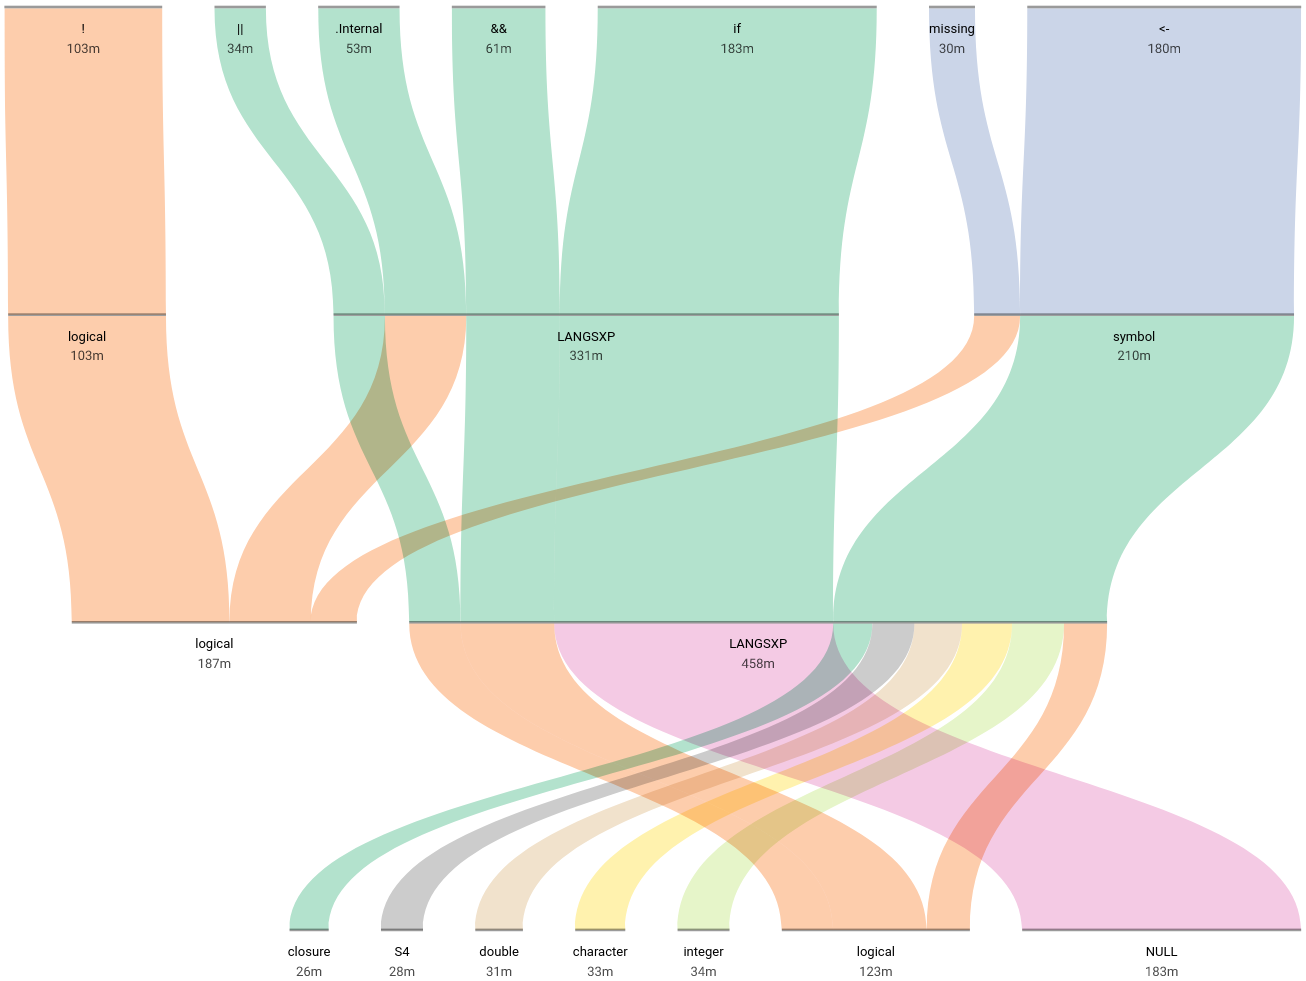
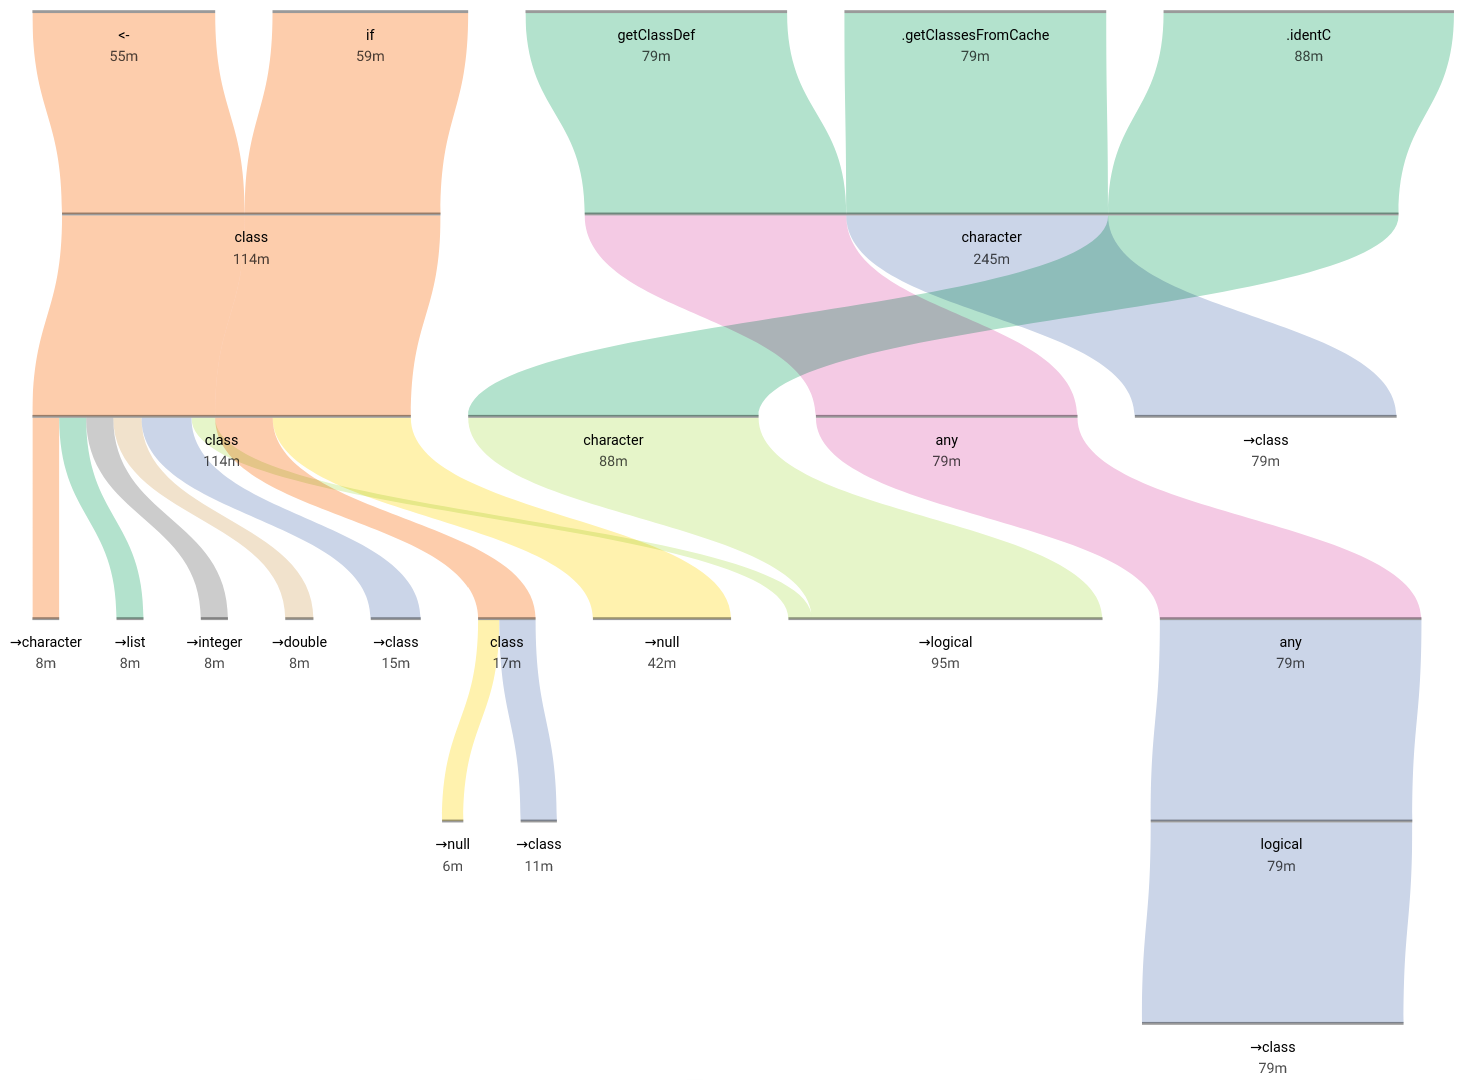
update About + new screenshots

diff --git a/src/components/AboutPanel.vue b/src/components/AboutPanel.vue
@@ -2,8 +2,8 @@
   <div id="about-div" class="pa-10">
     <h2>Motivation</h2>
     <p>
-      TYPEical is an interactive visualization for exploration and analysis of type
-      usage in a programming language. It visualizes
+      TYPEical is an interactive visualization for exploration and analysis of
+      type usage in a programming language. It visualizes
       <span class="text-bold">type signatures</span> of function calls as flows,
       with the width corresponding to the popularity of the type signatures in
       the underlying data set.
@@ -19,14 +19,42 @@
 
     <h2>Overview</h2>
     <p>
+      As the screenshot below demostrates, the main view of the visualization
+      contains multiple distinct components:
+    </p>
+    <ul>
+      <li>type flow panel (on the left);</li>
+      <li>
+        filtering panel (on the right):
+        <ul>
+          <li>search bar;</li>
+          <li>packages treemap;</li>
+          <li>functions treemap.</li>
+        </ul>
+      </li>
+    </ul>
+    <p></p>
+
+    <div>
+      <v-btn @click="showScreenshots.layout = !showScreenshots.layout">
+        <span v-if="!showScreenshots.layout">Show Screenshot</span>
+        <span v-if="showScreenshots.layout">Hide Screenshot</span>
+      </v-btn>
+      <v-card v-if="showScreenshots.layout">
+        <img class="types-screenshot" src="vis-layout-ann.png" />
+      </v-card>
+    </div>
+
+    <p>
       By default, the visualization shows an
-      <span class="text-italic">excerpt from the full data</span>, i.e. several
+      <span class="text-bold">excerpt from the full data</span>, i.e. several
       most popular function call signatures in the entire dataset.
     </p>
 
     <div>
       <v-btn @click="showScreenshots.default = !showScreenshots.default">
-        Show Screenshot
+        <span v-if="!showScreenshots.default">Show Screenshot</span>
+        <span v-if="showScreenshots.default">Hide Screenshot</span>
       </v-btn>
       <v-card v-if="showScreenshots.default">
         <img class="types-screenshot" src="tyviz-default.png" />
@@ -34,73 +62,99 @@
     </div>
 
     <p>
-      To see a <span class="text-italic">single package excerpt</span>, select
-      the package of interest on the Packages treemap. The following screenshot
-      shows an excerpt from package <span class="text-code">lattice</span>.
+      To see a <span class="text-bold">single package excerpt</span>, select the
+      package of interest on the Packages treemap. The following screenshot
+      shows an excerpt from package <span class="text-code">nlme</span>.
     </p>
 
     <div>
-      <v-btn @click="showScreenshots.lattice = !showScreenshots.lattice">
-        Show Screenshot
+      <v-btn @click="showScreenshots.nlme = !showScreenshots.nlme">
+        <span v-if="!showScreenshots.nlme">Show Screenshot</span>
+        <span v-if="showScreenshots.nlme">Hide Screenshot</span>
       </v-btn>
-      <v-card v-if="showScreenshots.lattice">
-        <img class="types-screenshot" src="lattice.png" />
+      <v-card v-if="showScreenshots.nlme">
+        <img class="types-screenshot" src="nlme.png" />
       </v-card>
     </div>
 
     <p>
       In this picture, most of the flows depict a single type signature of a
       single function, except for
-      <span class="text-code">lattice.getStatus</span>, which has two type
+      <span class="text-code">getCovariate</span> and
+      <span class="text-code">coef&lt;-</span>, which both have two type
       signatures in the depicted subset of the data. The next screenshot shows
-      highlighting of one of the two signatures of this function.
+      highlighting of one of the two signatures of
+      <span class="text-code">getCovariate</span>.
     </p>
 
     <div>
       <v-btn
-        @click="
-          showScreenshots.latticheHighlight = !showScreenshots.latticheHighlight
-        "
+        @click="showScreenshots.nlmeHighlight = !showScreenshots.nlmeHighlight"
       >
-        Show Screenshot
+        <span v-if="!showScreenshots.nlmeHighlight">Show Screenshot</span>
+        <span v-if="showScreenshots.nlmeHighlight">Hide Screenshot</span>
       </v-btn>
-      <v-card v-if="showScreenshots.latticheHighlight">
-        <img class="types-screenshot" src="lattice-highlight-annotated.png" />
+      <v-card v-if="showScreenshots.nlmeHighlight">
+        <img class="types-screenshot" src="nlme-highlighted-ann.png" />
       </v-card>
     </div>
 
     <p>
       Selecting a function on the Functions treemap loads its
-      <span class="text-italic">complete type information</span>. The following
+      <span class="text-bold">complete type information</span>. The following
       screenshot shows all available type signatures of function
-      <span class="text-code">lattice.getStatus</span>. The function always
-      takes a <span class="text-code">character</span> as the first argument and
-      most often takes a <span class="text-code">character</span> as the second
-      argument, with the second argument sometimes being a
-      <span class="text-code">NULL</span> value. The return type of the function
-      varies.
+      <span class="text-code">nlme.getCovariate</span>. The function always
+      takes a <span class="text-code">class</span> as the first argument and
+      most often takes <span class="text-code">any</span> as the second and
+      third arguments, with them sometimes having
+      <span class="text-code">class</span> type. The return type of the function
+      varies, but most often it is either a
+      <span class="text-code">list</span>
+      or a vector of <span class="text-code">double</span>.
     </p>
 
     <div>
-      <v-btn @click="showScreenshots.latticeFun = !showScreenshots.latticeFun">
-        Show Screenshot
+      <v-btn @click="showScreenshots.nlmeFun = !showScreenshots.nlmeFun">
+        <span v-if="!showScreenshots.nlmeFun">Show Screenshot</span>
+        <span v-if="showScreenshots.nlmeFun">Hide Screenshot</span>
       </v-btn>
-      <v-card v-if="showScreenshots.latticeFun">
-        <img class="types-screenshot" src="lattice-getStatus.png" />
+      <v-card v-if="showScreenshots.nlmeFun">
+        <img class="types-screenshot" src="nlme-getCovariate.png" />
+      </v-card>
+    </div>
+
+    <p>
+      For <span class="text-code">list</span> and
+      <span class="text-code">class</span> types, it is possible to
+      <span class="text-bold">increase detalization</span> by checking the box
+      "Flows Grouped by function name" in
+      <span class="text-tab">Settings</span> tab. The screenshot below shows
+      several detailed signatures for
+      <span class="text-code">nlme.getCovariate</span> function from above.
+    </p>
+
+    <div>
+      <v-btn @click="showScreenshots.nlmeFunDet = !showScreenshots.nlmeFunDet">
+        <span v-if="!showScreenshots.nlmeFunDet">Show Screenshot</span>
+        <span v-if="showScreenshots.nlmeFunDet">Hide Screenshot</span>
+      </v-btn>
+      <v-card v-if="showScreenshots.nlmeFunDet">
+        <img class="types-screenshot" src="nlme-getCovariate-det.png" />
       </v-card>
     </div>
 
     <h3>Special Features</h3>
     <p>
-      <span class="text-italic">Quick function search</span> is supported by the
-      Functions autocomplete list in <span class="text-tab">TYPEical</span> tab; to
-      find a function, simply start typing its qualified name. <br />
+      <span class="text-bold">Quick function search</span> is supported by the
+      search bar in <span class="text-tab">TYPEical</span> tab; to find a
+      function, simply start typing its qualified name (e.g.
+      <span class="text-code">base.-</span>). <br />
       To search by packages instead of functions, uncheck the box "Autocomplete
       with functions" in <span class="text-tab">Settings</span> tab.
     </p>
     <p>
-      When multiple functions are on display,
-      <span class="text-italic">mouse click on a flow</span> will load complete
+      When multiple functions are on display, mouse
+      <span class="text-bold">click on a flow</span> will load complete
       information about the corresponding function. Subsequent double-click
       anywhere on the diagram will load the previous information.
     </p>
@@ -109,7 +163,7 @@
     <h2>Filters and Settings</h2>
     <p>
       TYPEical provides facilities for
-      <span class="text-italic">filtering</span> data by:
+      <span class="text-bold">filtering</span> data by:
     </p>
     <ul>
       <li>
@@ -127,17 +181,29 @@
     </ul>
 
     <p>
-      TYPEical can also be customized using the following
-      <span class="text-tab">Settings</span>:
+      TYPEical can also be <span class="text-bold">customized</span> using the
+      following <span class="text-tab">Settings</span>:
     </p>
     <ul>
       <li>
-        "Horizontal layout" orients flows left-to-right instead of
+        "Horizontal Layout" orients flows left-to-right instead of
         top-to-bottom.
       </li>
       <li>
+        "Flows Justified" stretches flows so that all return types are aligned.
+      </li>
+      <li>
         "Type flows per page" sets the maximal number of individual flows shown
-        on the main diagram.
+        on the main diagram at a time. If the current subset of the data is
+        larger, the flows spread across multiple pages.
+      </li>
+      <li>
+        "Flows Grouped by function name" (selected by default) tries to place
+        all the flows of the same function onto the same page. When unselected,
+        individual flows are simply sorted by popularity, and thus same
+        function's flows can spread across multiple pages. Unselected, this
+        feature is useful for comparing popular signatures of a small number of
+        different functions.
       </li>
       <li>
         "Size of excerpt" sets the maximal number of records loaded from the
@@ -190,7 +256,7 @@ h3 {
 }
 
 .types-screenshot {
-  width: 1000px;
+  width: 1038px;
   display: block;
 }
 </style>
@@ -204,10 +270,12 @@ export default {
 
   data: () => ({
     showScreenshots: {
+      layout: true,
       default: false,
-      lattice: false,
-      latticheHighlight: false,
-      latticeFun: false
+      nlme: false,
+      nlmeHighlight: false,
+      nlmeFun: false,
+      nlmeFunDet: false
     }
   })
 };

diff --git a/src/components/SettingsPanel.vue b/src/components/SettingsPanel.vue
@@ -29,14 +29,6 @@
         @change="$store.commit('flowsJustified', $store.state.flowsJustified)"
       />
 
-      <v-checkbox
-        v-model="$store.state.groupFlowsByFunName"
-        label="Group Flows By Function Name"
-        @change="
-          $store.commit('groupFlowsByFunName', $store.state.groupFlowsByFunName)
-        "
-      />
-
       <div class="v-input v-input--selection-controls div-setting">
         <select
           v-model="$store.state.flowsPerPage"
@@ -52,9 +44,17 @@
           </option>
         </select>
         <label class="v-label label-setting" style="color: rgba(0, 0, 0, 0.6)">
-          Type flows shown per page
+          Type Flows shown per page
         </label>
       </div>
+
+      <v-checkbox
+        v-model="$store.state.groupFlowsByFunName"
+        label="Flows Grouped by function name"
+        @change="
+          $store.commit('groupFlowsByFunName', $store.state.groupFlowsByFunName)
+        "
+      />
 
       <h3>Data Search and Filtering</h3>
 

diff --git a/src/components/DatasetPanel.vue b/src/components/DatasetPanel.vue
@@ -17,6 +17,12 @@
       ran over the test, example, and vignette code of each package.
     </p>
 
+    <p>
+      The data set comes in two versions: default and detailed. The latter
+      contains more fine grained <span class="text-code">list</span> and
+      <span class="text-code">class</span> types.
+    </p>
+
     <h2>Data Summary</h2>
     <h3>Analysis</h3>
     <v-data-table

diff --git a/README.md b/README.md
@@ -16,5 +16,5 @@ Running on server:
 
 ```
 BASE_MODE=server TYPEICAL_DB=realdata.db npm run serve -- --port 8006
-BASE_MODE=server TYPEICAL_DB=400pkgs.db npm run serve -- --port 8006
+BASE_MODE=server TYPEICAL_DB=400pkgs.db TYPEICAL_DB_DET=400pkgs-det.db npm run serve -- --port 8006
 ```
